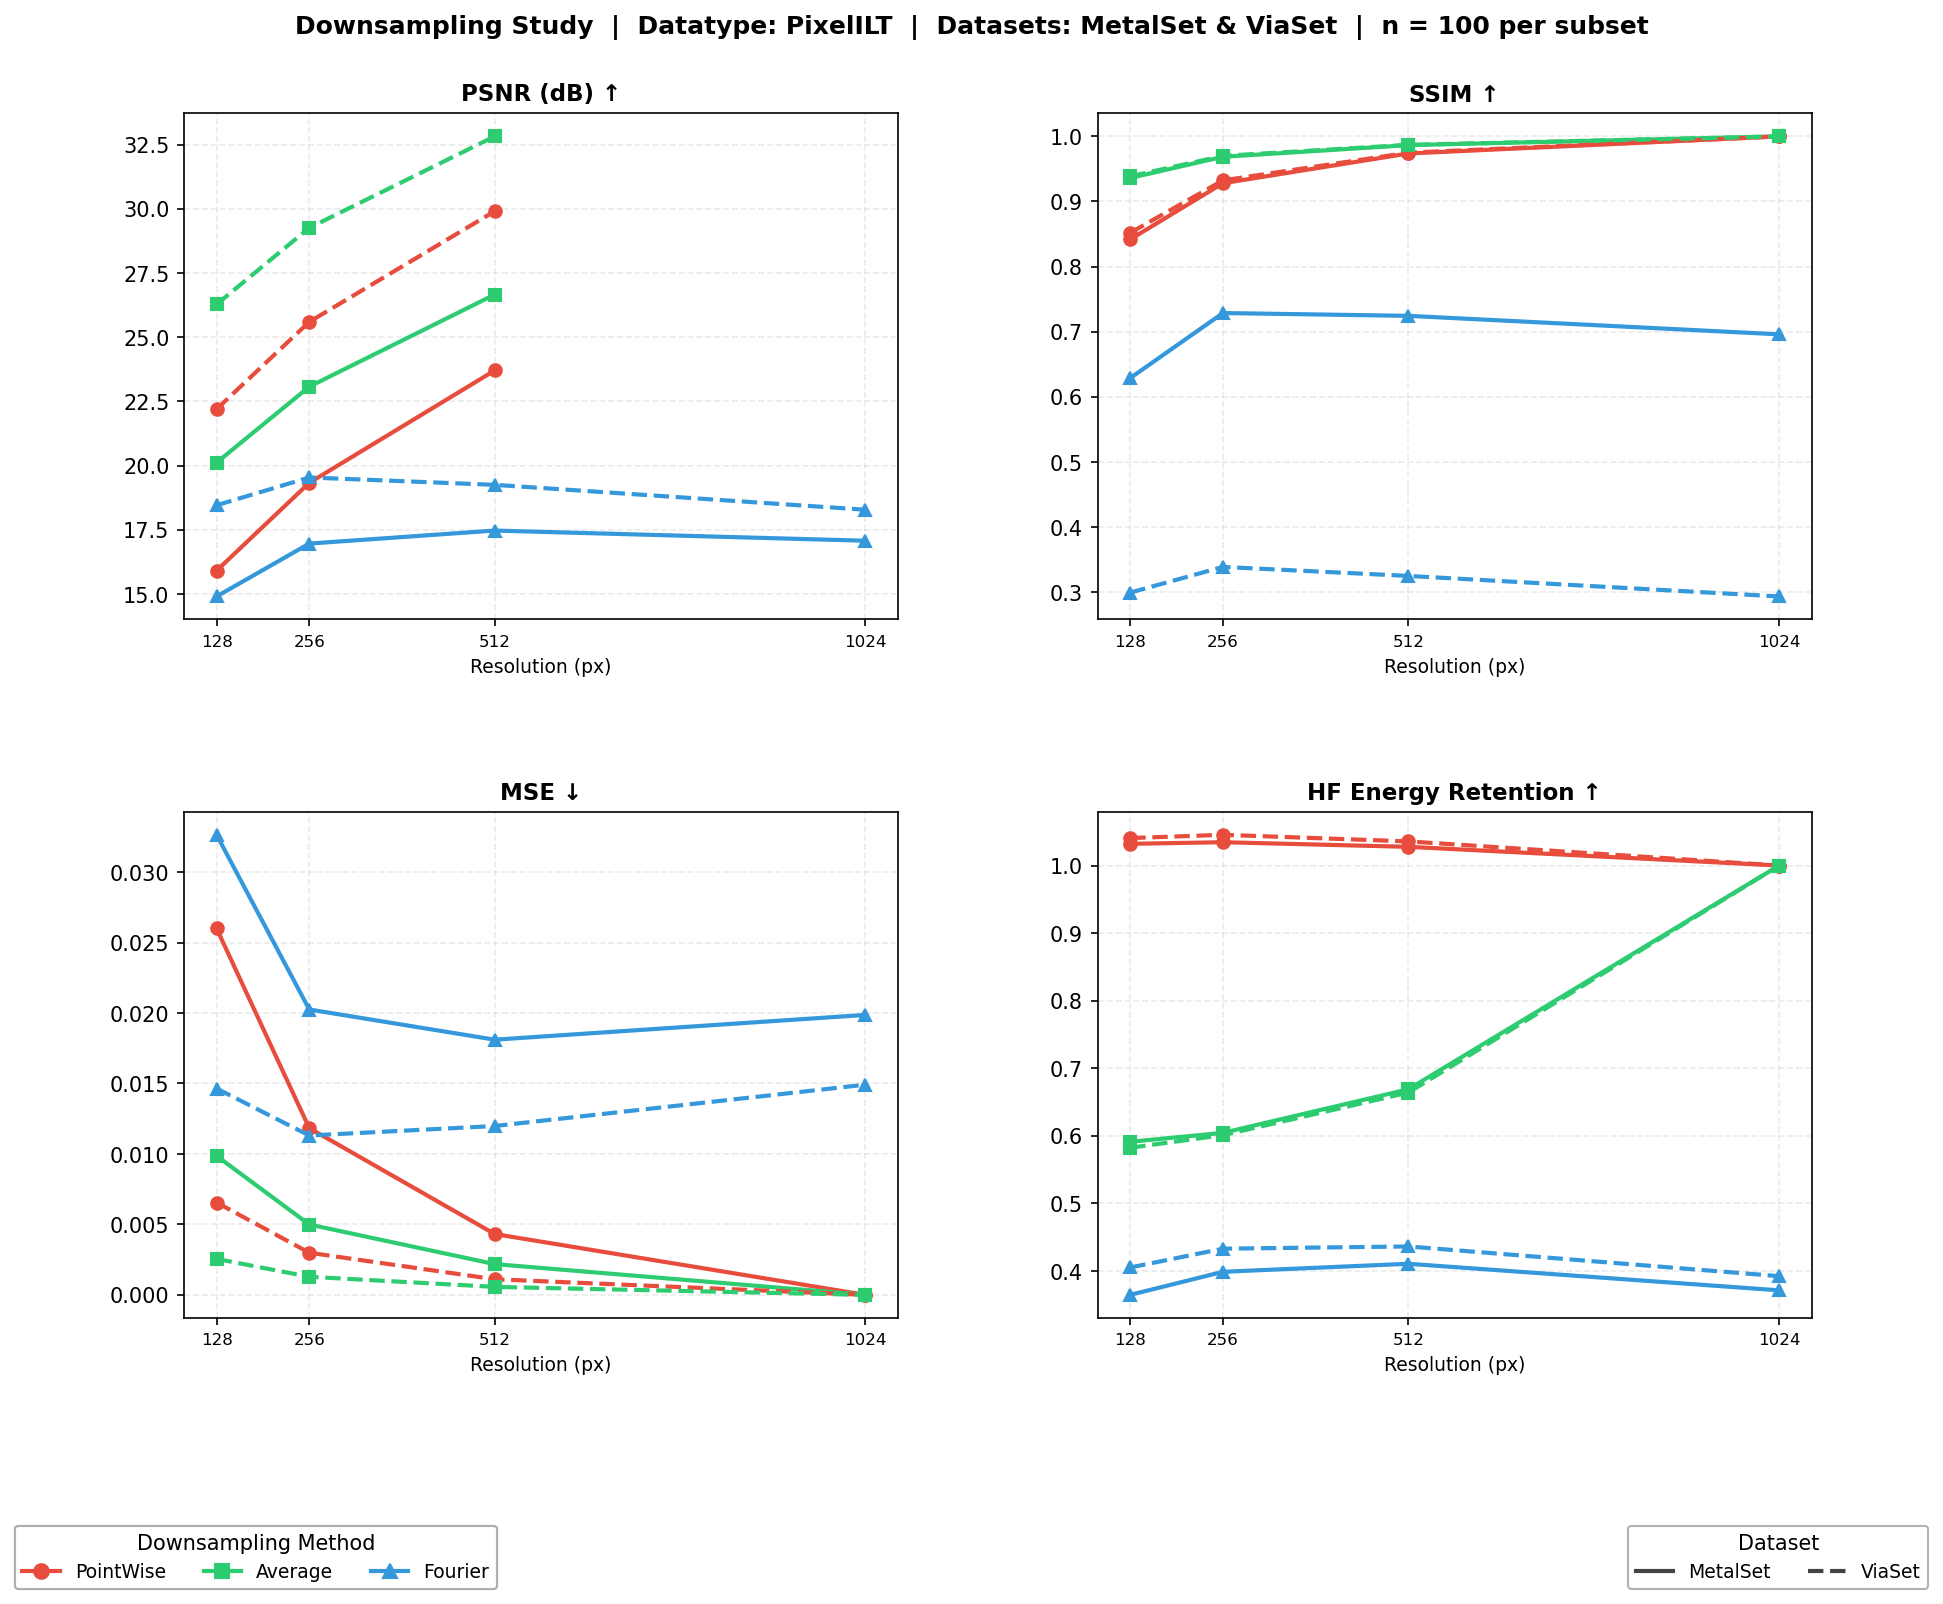
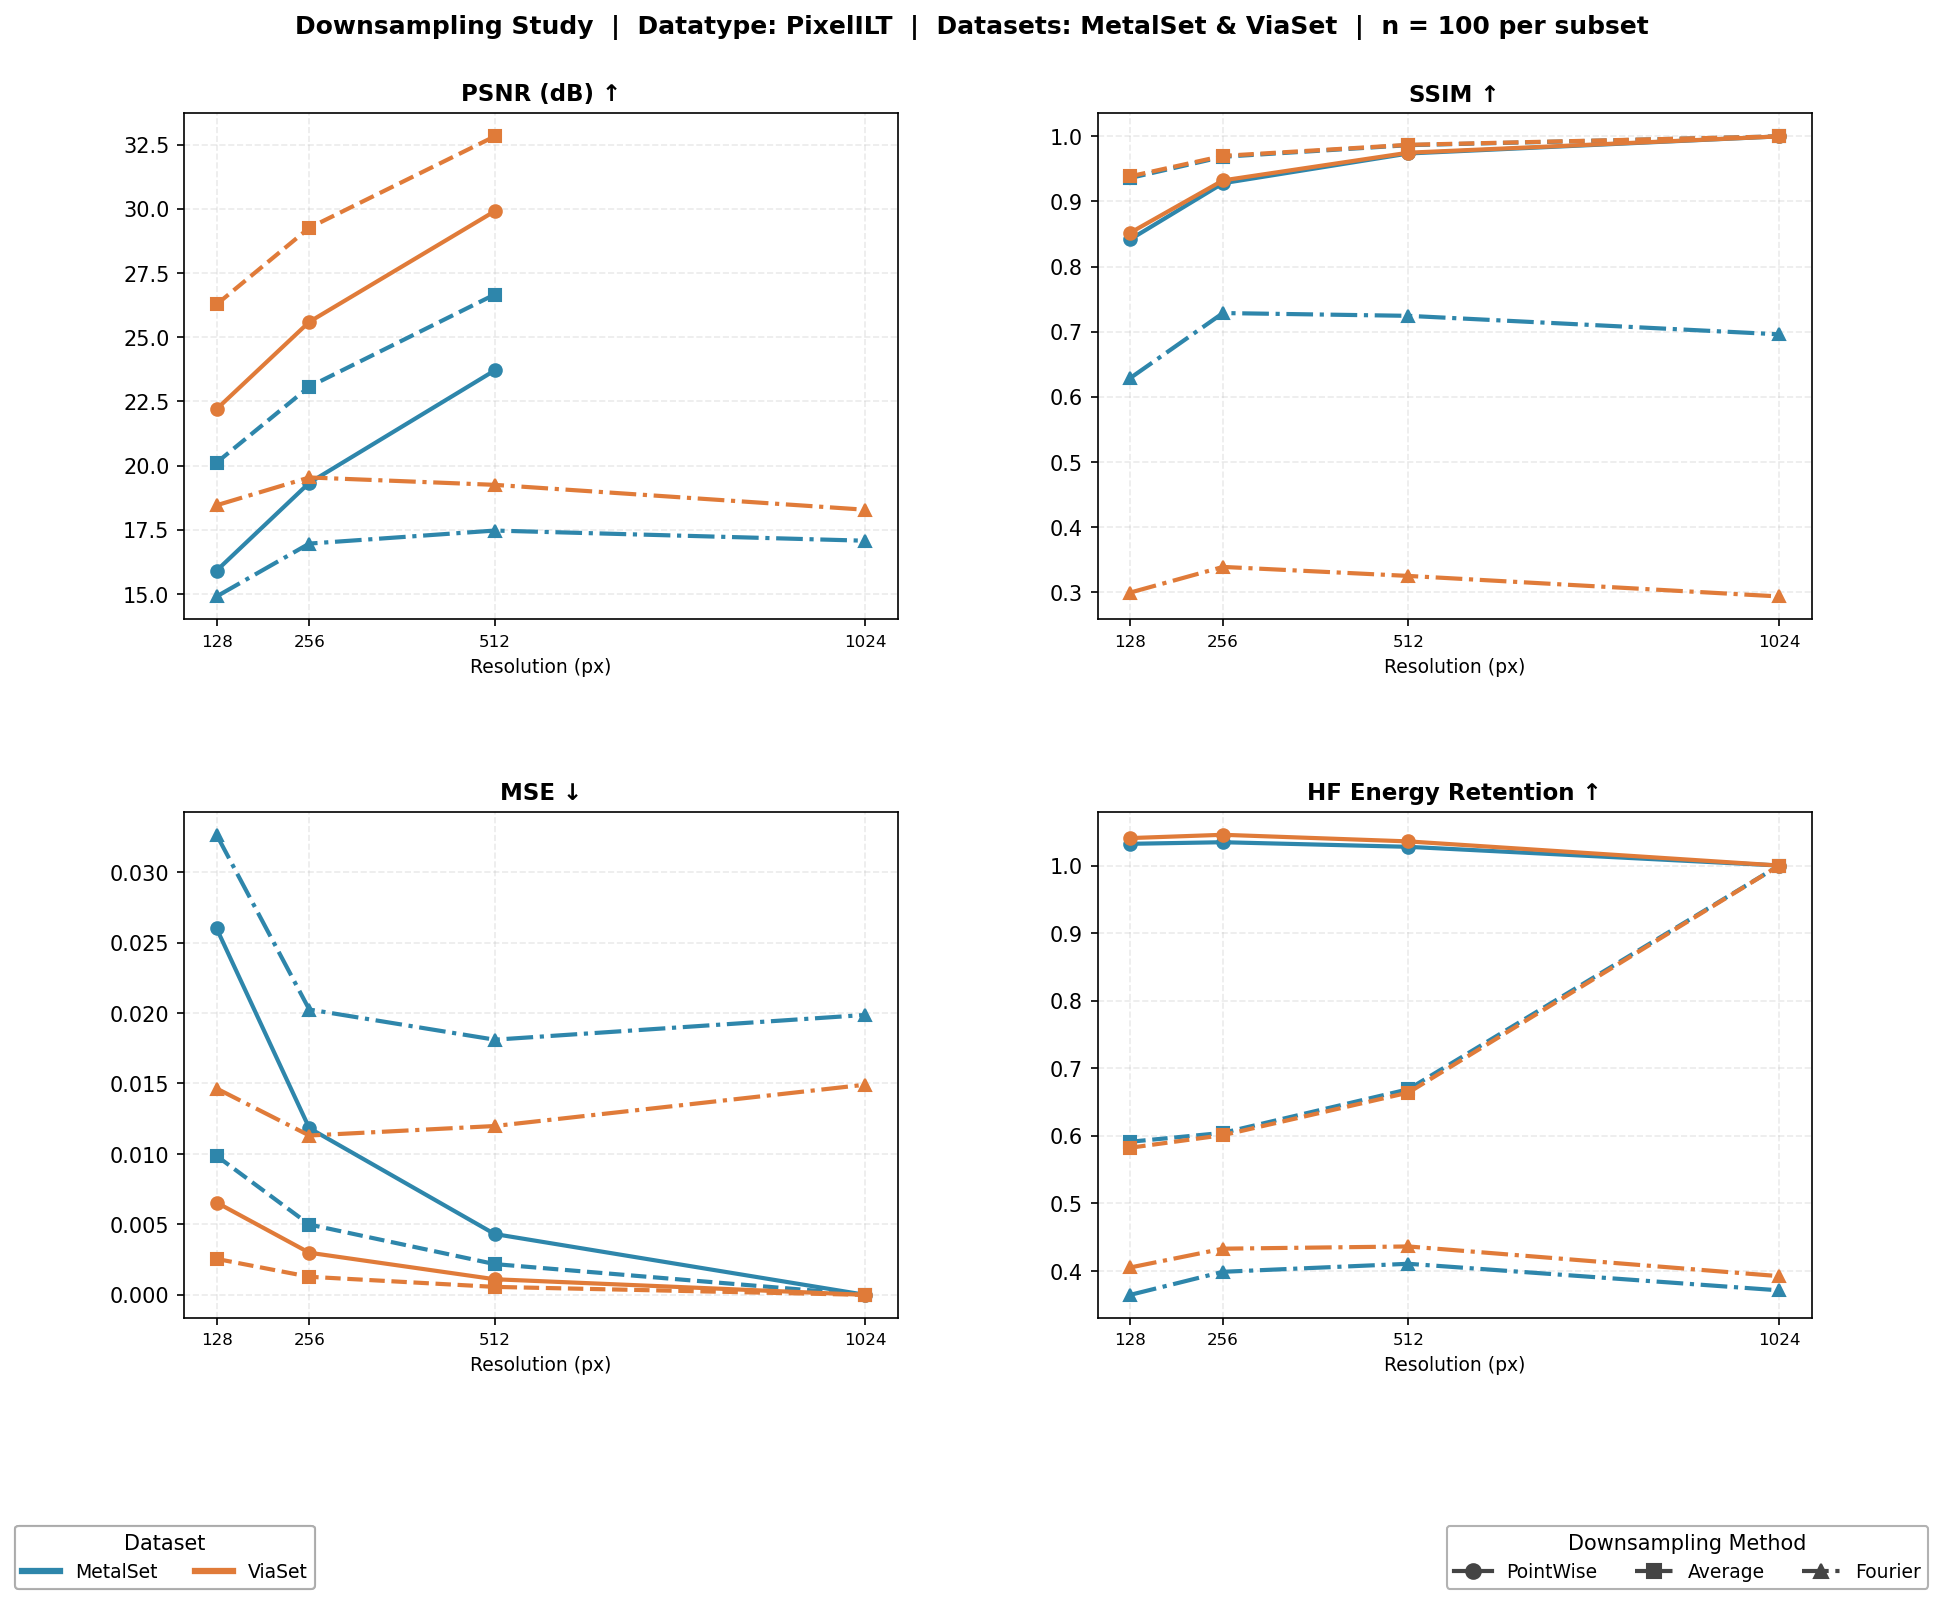
Update visual comparison and metric plotting functions for improved clarity and organization

diff --git a/spatialstudy.py b/spatialstudy.py
@@ -312,10 +312,8 @@ def evaluate_dataset(data: dict,
 # Visualisation helpers
 # ──────────────────────────────────────────────────────────────────────────────
 
-METHOD_COLORS = {"PointWise": "#E74C3C", "Average": "#2ECC71", "Fourier": "#3498DB"}
 METHOD_MARKERS = {"PointWise": "o", "Average": "s", "Fourier": "^"}
-
-# Line styles cycle across datasets so overlapping methods stay distinguishable
+DATASET_COLORS = ["#2E86AB", "#E07B39", "#6A994E", "#9B5DE5"]  # up to 4 datasets
 DATASET_LINESTYLES = ["-", "--", "-.", ":"]
 
 METRIC_LABELS = {
@@ -329,18 +327,25 @@ METRIC_LABELS = {
 def plot_metrics_from_csv(csv_path: str, save_dir: str = None):
     """
     Read the CSV produced by save_results_csv() and generate one figure per
-    datatype.  Each figure has a 2×2 grid of metric subplots.
+    (datatype x dataset-group) combination.
 
-    Visual encoding — two separate legends, one concept each:
-      Legend 1 (Method)  : colour + marker shape
-      Legend 2 (Dataset) : line style only, all in neutral grey
+    Visual encoding:
+      Colour      → dataset        (primary comparison axis)
+      Marker shape → method        (secondary comparison axis)
+      Line style  → method         (redundant with marker, aids print/greyscale)
 
-    This separates the two dimensions completely so neither legend is
-    cluttered with the other dimension's information.
+    Parameters
+    ----------
+    csv_path : str
+        Path to the CSV file written by save_results_csv().
+    save_dir : str or None
+        Directory to save PNG files. If None, figures are only shown and not saved.
     """
     import csv
 
-
+    if save_dir is not None:
+        save_dir = Path(save_dir)
+        save_dir.mkdir(parents=True, exist_ok=True)
 
     # ── Load CSV ──────────────────────────────────────────────────────────────
     rows = []
@@ -360,7 +365,6 @@ def plot_metrics_from_csv(csv_path: str, save_dir: str = None):
             })
 
     datatypes   = list(dict.fromkeys(r["datatype"]  for r in rows))
-    datasets    = list(dict.fromkeys(r["dataset"]   for r in rows))
     methods     = list(dict.fromkeys(r["method"]    for r in rows))
     resolutions = sorted(set(r["resolution"] for r in rows))
     metrics     = list(METRIC_LABELS.keys())
@@ -369,23 +373,27 @@ def plot_metrics_from_csv(csv_path: str, save_dir: str = None):
 
     # Fixed dataset groupings — two figures per datatype
     DATASET_GROUPS = {
-        "MetalSet_ViaSet":       ["MetalSet", "ViaSet"],
-        "StdContact_StdMetal":   ["StdContact", "StdMetal"],
+        "MetalSet_ViaSet":     ["MetalSet", "ViaSet"],
+        "StdContact_StdMetal": ["StdContact", "StdMetal"],
     }
 
-    # Line style per dataset, consistent across all figures
-    all_grouped_datasets = [ds for grp in DATASET_GROUPS.values() for ds in grp]
-    dataset_ls = {ds: DATASET_LINESTYLES[i % len(DATASET_LINESTYLES)]
-                  for i, ds in enumerate(all_grouped_datasets)}
+    # Colour per dataset within each group (same colours reused across groups
+    # since the two groups never appear in the same figure)
+    GROUP_COLORS = [DATASET_COLORS[0], DATASET_COLORS[1]]
+
+    # Line style + marker are both keyed on method for redundant encoding
+    method_ls = {m: DATASET_LINESTYLES[i] for i, m in enumerate(methods)}
 
     # ── One pair of figures per datatype ─────────────────────────────────────
     for datatype in datatypes:
         dt_rows = [r for r in rows if r["datatype"] == datatype]
 
         for group_name, group_datasets in DATASET_GROUPS.items():
-            # Skip group if none of its datasets appear in this datatype's data
             if not any(r["dataset"] in group_datasets for r in dt_rows):
                 continue
+
+            dataset_color = {ds: GROUP_COLORS[i]
+                             for i, ds in enumerate(group_datasets)}
 
             fig, axes = plt.subplots(
                 2, 2, figsize=(14, 11),
@@ -396,10 +404,10 @@ def plot_metrics_from_csv(csv_path: str, save_dir: str = None):
 
             for ax, metric in zip(axes, metrics):
                 for dataset in group_datasets:
-                    ls = dataset_ls[dataset]
+                    color = dataset_color[dataset]
                     for method in methods:
-                        color  = METHOD_COLORS.get(method, "#888888")
                         marker = METHOD_MARKERS.get(method, "o")
+                        ls     = method_ls[method]
 
                         values = []
                         for res in resolutions:
@@ -425,44 +433,45 @@ def plot_metrics_from_csv(csv_path: str, save_dir: str = None):
                 ax.set_xticklabels([str(r) for r in resolutions], fontsize=8)
                 ax.grid(True, alpha=0.25, linestyle="--")
 
-            # ── Legend 1: Method (colour + marker) ────────────────────────────
-            method_handles = [
-                plt.Line2D([0], [0],
-                           color=METHOD_COLORS[m], marker=METHOD_MARKERS[m],
-                           linewidth=2, markersize=7, label=m)
-                for m in methods
-            ]
-            legend_method = fig.legend(
-                handles=method_handles,
-                title="Downsampling Method",
-                title_fontsize=10,
-                fontsize=9,
-                loc="lower left",
-                bbox_to_anchor=(0.04, 0.01),
-                ncol=len(methods),
-                framealpha=0.9,
-                edgecolor="#aaaaaa",
-            )
-
-            # ── Legend 2: Dataset (line style, neutral colour) ─────────────────
+            # ── Legend 1: Dataset (colour) ─────────────────────────────────────
             dataset_handles = [
                 plt.Line2D([0], [0],
-                           color="#444444", linestyle=dataset_ls[ds],
-                           linewidth=2, label=ds)
+                           color=dataset_color[ds], linewidth=3, label=ds)
                 for ds in group_datasets
             ]
-            fig.legend(
+            legend_dataset = fig.legend(
                 handles=dataset_handles,
                 title="Dataset",
                 title_fontsize=10,
                 fontsize=9,
-                loc="lower right",
-                bbox_to_anchor=(0.96, 0.01),
+                loc="lower left",
+                bbox_to_anchor=(0.04, 0.01),
                 ncol=len(group_datasets),
                 framealpha=0.9,
                 edgecolor="#aaaaaa",
             )
-            fig.add_artist(legend_method)
+
+            # ── Legend 2: Method (marker + line style, neutral colour) ──────────
+            method_handles = [
+                plt.Line2D([0], [0],
+                           color="#444444",
+                           linestyle=method_ls[m],
+                           marker=METHOD_MARKERS.get(m, "o"),
+                           linewidth=2, markersize=7, label=m)
+                for m in methods
+            ]
+            fig.legend(
+                handles=method_handles,
+                title="Downsampling Method",
+                title_fontsize=10,
+                fontsize=9,
+                loc="lower right",
+                bbox_to_anchor=(0.96, 0.01),
+                ncol=len(methods),
+                framealpha=0.9,
+                edgecolor="#aaaaaa",
+            )
+            fig.add_artist(legend_dataset)
 
             # ── Title ──────────────────────────────────────────────────────────
             pretty_group = " & ".join(group_datasets)
@@ -472,61 +481,12 @@ def plot_metrics_from_csv(csv_path: str, save_dir: str = None):
                 fontsize=12, fontweight="bold", y=0.97,
             )
 
-            if save_dir:
-                save_dir = Path(save_dir)
-                save_dir.mkdir(parents=True, exist_ok=True)
+            if save_dir is not None:
                 out_path = save_dir / f"metrics_{datatype}_{group_name}.png"
                 plt.savefig(out_path, dpi=150, bbox_inches="tight")
-
                 print(f"  Saved: {out_path}")
+
             plt.show()
-
-def plot_visual_comparison(data: dict,
-                           subset_key: str,
-                           resolutions: list = TARGET_RESOLUTIONS,
-                           image_index: int = 0,
-                           save_path: str = None):
-    """
-    Side-by-side visual comparison grid:
-      rows = methods, columns = resolutions.
-    Shows the actual downsampled images (not upscaled) so you can assess
-    visual quality at each target resolution directly.
-    """
-    img = data[subset_key][image_index].astype(np.float32)
-
-    n_methods = len(METHODS)
-    n_res = len(resolutions)
-
-    fig = plt.figure(figsize=(3 * (n_res + 1), 3 * (n_methods + 1)))
-    gs = gridspec.GridSpec(n_methods + 1, n_res + 1,
-                           hspace=0.05, wspace=0.05)
-
-    # Original (top-left column)
-    ax_orig = fig.add_subplot(gs[:, 0])
-    ax_orig.imshow(to_grayscale(img), cmap="gray",
-                   vmin=img.min(), vmax=img.max())
-    ax_orig.set_title("Original\n2048x2048", fontsize=9)
-    ax_orig.axis("off")
-
-    for row, (method_name, method_fn) in enumerate(METHODS.items()):
-        for col, res in enumerate(resolutions):
-            ds = method_fn(img, res)
-            ax = fig.add_subplot(gs[row, col + 1])
-            ax.imshow(to_grayscale(ds), cmap="gray")
-            if row == 0:
-                ax.set_title(f"{res}x{res}", fontsize=8)
-            if col == 0:
-                ax.set_ylabel(method_name, fontsize=8, rotation=90,
-                              labelpad=4)
-            ax.set_xticks([])
-            ax.set_yticks([])
-
-    fig.suptitle(f"Visual Comparison — {subset_key}",
-                 fontsize=13, fontweight="bold", y=1.01)
-    if save_path:
-        plt.savefig(save_path, dpi=150, bbox_inches="tight")
-    plt.show()
-
 
 METRIC_DISPLAY = {
     "psnr":     ("PSNR (dB)", "higher"),
